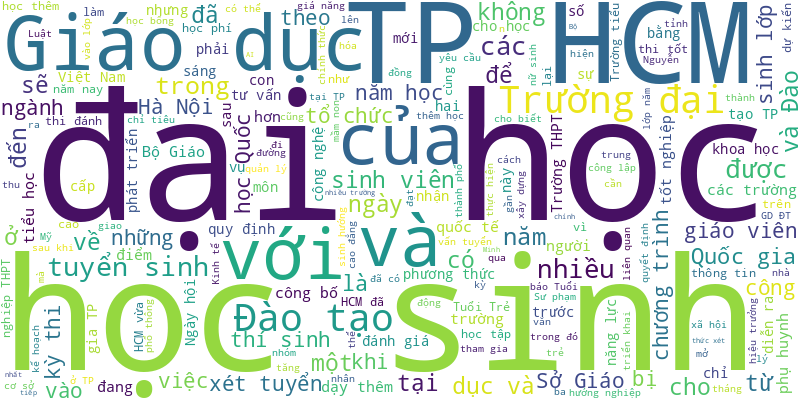
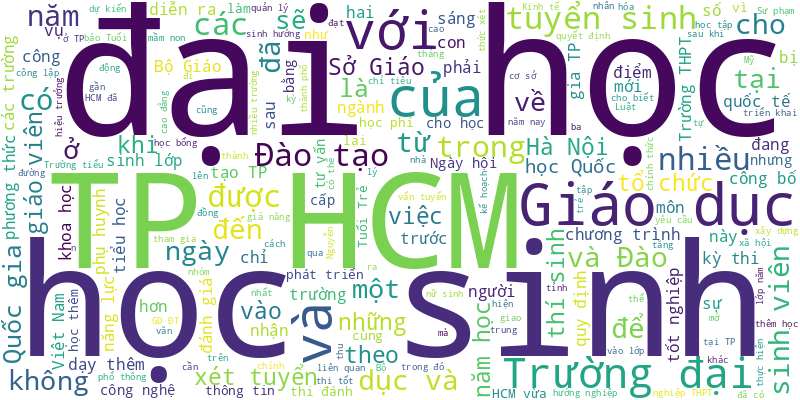
🍀 = 90%

diff --git a/README.md b/README.md
@@ -1,6 +1,11 @@
 # Tuoi Tre RSS 
 
 ## Giáo dục 
+- Nguyễn Trí Hiền và Nguyễn Trí Hậu, hai anh em song sinh ở Quảng Nam đã xuất sắc cùng với 4 học sinh khác giành huy chương vàng tại Kỳ thi Olympic giao lưu toán học Turkmenistan.
+- Cả nước hiện có nhiều trường phổ thông được tự chủ tuyển sinh, chủ yếu là các trường tư thục và công lập tự chủ tài chính.
+- Ngày 24-4, trường đại học FPT ký thỏa thuận hợp tác với trung tâm Đổi mới sáng tạo Quốc gia (NIC), mở ra bước tiến trong hành trình xây dựng hệ sinh thái khởi nghiệp cho sinh viên.
+- Chiều 27-4, nhà học thể dục thể thao Trường đại học Bách khoa, Đại học Quốc gia TP.HCM như "nổ tung" trong không khí cuồng nhiệt của vòng chung kết Giải Bóng rổ học sinh, sinh viên Đại học Quốc gia TP.HCM mở rộng năm 2025.
+- Ngày 27-4, vòng chung kết cuộc thi “Thiết kế - Dựng mô hình nhà chống thiên tai, bão lũ” đã nhận được nhiều sản phẩm độc đáo, có tính ứng dụng cao của học sinh THPT trên địa bàn TP Đà Nẵng.
 - Sở GD-ĐT TP.HCM vừa xây dựng kế hoạch sắp xếp bộ máy khi không còn phòng GD-ĐT.
 - Công an tỉnh Bắc Giang vừa phát hiện 15 giáo viên mua bằng giả cao đẳng, đại học và chứng chỉ tin học, ngoại ngữ để thi tuyển hoặc xếp lương giáo viên.
 - Chuyên gia Ngân hàng Thế giới đã chỉ ra hàng loạt điểm yếu trong đào tạo nhân lực bán dẫn ở Việt Nam, và khuyến nghị doanh nghiệp cùng tham gia vào quá trình đào tạo để đảm bảo chất lượng đầu ra đáp ứng yêu cầu thực tiễn.
@@ -999,18 +1004,63 @@ Trường đại học Văn Lang được QS xếp hạng top 51-100 thế giớ
 - Đây là một trong những yêu cầu của Phó thủ tướng Chính phủ đối với Bộ Giáo dục và Đào tạo, khi hoàn thiện dự thảo quyết định phê duyệt quy hoạch mạng lưới cơ sở giáo dục đại học và sư phạm thời kỳ 2021-2030, tầm nhìn đến năm 2050.
 - Ủy ban Kiểm tra Thanh Hóa đề nghị kiểm tra công tác tuyển sinh vào trường phổ thông dân tộc nội trú THCS từ năm học 2021 - 2022 đến nay.
 - Bảng xếp hạng đại học Việt Nam 2025 do một tổ chức trong nước xây dựng, vừa công bố cho thấy top 100 của năm nay có nhiều thay đổi.
-- Xúng xính áo dài, nghe hát quan họ, bày mâm ngũ quả, gói bánh chưng, chơi cà kheo..., sinh viên quốc tế thích thú khi được hưởng Tết Việt.
-- PGS.TS Nguyễn Xuân Thành, vụ trưởng Vụ Giáo dục trung học, chia sẻ về định hướng ôn tập chuẩn bị cho kỳ thi tốt nghiệp THPT năm 2025.
-- Từng thực tập tại các "ông lớn" công nghệ như Facebook, Nvidia, thế nhưng "cơn bão" sa thải nhân sự tại Mỹ vào cuối năm 2023 khiến Nhật Quang vô cùng căng thẳng, phải rải hơn 600 đơn tìm việc làm từ khi chưa tốt nghiệp.
-- Đại học Huế vừa có quyết định hủy kết quả trúng tuyển cao học của bà Đào Thị Bích Thủy - một lãnh đạo Trường đại học Kinh Bắc.
-- Dù đã hoàn thành chương trình liên kết đào tạo thạc sĩ điều hành quản trị kinh doanh (EMBA) hơn 1 năm qua, nhưng đến nay học viên vẫn chưa được công nhận văn bằng tại Việt Nam.
 ![Edu](Edu.png)
 ## Thời Sự 
-- Trả lời ý kiến nhân dân về việc vì sao không tổ chức thành phố Hội An như hiện nay thành một phường, ông Lê Văn Dũng - Chủ tịch UBND tỉnh Quảng Nam - cho rằng nếu thành lập phường xã mà qui mô quá lớn thì khó gần dân, sát dân.
+- Một người phụ nữ ở Hà Tĩnh vừa bị những kẻ lừa đảo giăng bẫy chiếm đoạt số tiền hơn 400 triệu đồng vì một đơn hàng "0 đồng".
+- Trong lúc bật máy lạnh ngủ trưa, cả nhà tá hỏa phát hiện nhiều con rắn đang trú ẩn trong máy điều hòa.
+- Vào lúc 20h30 đến 20h45 tối nay (28-4), TP.HCM sẽ tổng duyệt trình diễn 10.500 drone và trình diễn chính thức vào 20h30 đến 20h45 ngày 1-5.
+- Vòi rồng lớn, có sức tàn phá mạnh vừa quét qua địa bàn huyện An Minh (Kiên Giang) đã làm cho nhiều cây xanh đổ ngã và 24 căn nhà của người dân bị sập và tốc mái.
+- Căn nhà bốc cháy có 3 tầng và 1 tum, nằm sâu trong ngõ, cách mặt đường giao thông khoảng 30m. Cảnh sát cho biết đã phát hiện 3 nạn nhân tử vong.
+- Sau khi lắng nghe ý kiến đóng góp, nguyện vọng của người dân, thực hiện chỉ đạo của Ban thường vụ Tỉnh ủy Thanh Hóa, nhiều huyện đã chuyển đặt tên xã mới theo số thứ tự sang địa danh dễ nhớ, gắn với truyền thống văn hóa, lịch sử.
+- Tuấn đã tạo lập một “hệ sinh thái” gồm nhiều trang, hội nhóm kín như "Lan Quế Phường" với trên 14.600 thành viên để môi giới mại dâm và điều hành 300 gái bán dâm. Quá trình hoạt động, Tuấn đã dùng nhiều thủ đoạn tinh vi.
+- Một số tin tức đáng chú ý: REE bị phạt vì nhiều giao dịch chưa được thông qua; Nhiều doanh nghiệp 'chốt' cổ tức trước nghỉ lễ; Doanh nghiệp giảm mua lại trái phiếu trước hạn...
+- Hôm nay 28-4, thời tiết Bắc Bộ có mưa do ảnh hưởng không khí lạnh. Nam Bộ sau nhiều ngày mưa nay đã nắng nóng trở lại.
+- Thủ tướng Nhật Bản Ishiba Shigeru khẳng định như vậy trong cuộc gặp Tổng Bí thư Tô Lâm tối 27-4 tại trụ sở Trung ương Đảng ở Hà Nội.
+- Một công ty ở TP Nha Trang trình báo cơ quan điều tra, Viện KSND tỉnh Khánh Hòa và phải khóa tài khoản vì bỗng dưng bị nhận hơn 20,11 tỉ đồng bất thường. Một người dân cũng bị buộc nhận hơn 7,73 tỉ đồng.
+- Phu nhân Thủ tướng Nhật Bản Ishiba Shigeru, bà Ishiba Yoshiko, đi từ ngạc nhiên đến thích thú khi cùng làm bánh cốm với Phu nhân Tổng Bí thư Tô Lâm, bà Ngô Phương Ly.
+- Thường trực Ban Bí thư Trần Cẩm Tú căn dặn còn vài ngày đến lễ diễu binh kỷ niệm 50 năm Ngày thống nhất đất nước, thời gian gấp rút, nhiệm vụ nặng nề, mỗi cán bộ, chiến sĩ cần tập trung cao độ, đoàn kết, đồng lòng, nghìn người như một.
+- Các đại biểu được mời tham dự lễ kỷ niệm cần mang theo thư mời, thẻ đeo, căn cước công dân, không mang túi xách, chai nước, dù che đến khu vực tổ chức lễ kỷ niệm, không đi xe cá nhân vào khu vực giới hạn.
+- Đến thăm công trường sân bay Quảng Trị, Phó thủ tướng Trần Hồng Hà khích lệ công nhân vì góp tay xây dựng nên công trình mang ý nghĩa lịch sử trong không khí đại lễ 30-4.
+- Trải qua 50 năm hòa bình - thống nhất, tôi đã nối được rất nhiều mối thâm tình giữa "người bên này" với "người bên kia" và thật tự hào vì mình cũng được là một thành tố trong hòa hợp hòa giải dân tộc.
+- Dự Luật Tổ chức chính quyền địa phương sửa đổi đề xuất chủ tịch xã được bổ nhiệm, cách chức lãnh đạo cơ quan chuyên môn.
+- Ngày 27-4, Ban Quản lý dự án Mỹ Thuận (Bộ Xây dựng) đã có thông tin về tình hình thực hiện và công tác tổ chức thi công dự án cầu Nhơn Trạch trong dịp lễ 30-4 và 1-5.
+- Hàng trăm tấn bột ngọt, hạt nêm giả bị tạm giữ; Sáp nhập tỉnh thành có phải đổi biển số xe?… là các vấn đề thu hút nhiều bạn đọc phản hồi tuần qua.
+- Vừa qua, lượng hành khách chọn tuyến metro số 1 (Bến Thành - Suối Tiên) vào khu trung tâm TP.HCM xem chương trình lễ 30-4 rất đông đúc.
+- Xe chở rác đang chạy bị sạt bánh bên lề phải, tài xế đánh lái sang làn bên trái gây tai nạn với 2 xe máy chạy chiều ngược lại. Tài xế đã bị tạm giữ.
+- Lực lượng chức năng đã tìm được hai anh em ruột 12 tuổi và 11 tuổi ở Đồng Nai mất liên lạc với gia đình khi đạp xe lên TP.HCM xem diễu binh, diễu hành.
+- Mạng lưới đường trục chính tốc độ nhanh, ít giao cắt sẽ rút ngắn thời gian đi lại từ trung tâm TP.HCM ra tuyến cao tốc, vành đai để kết nối với các tỉnh thành.
+- Cựu lãnh đạo Sở Nông nghiệp và Phát triển nông thôn, Sở Xây dựng, Sở Thông tin và Truyền thông chưa được bố trí công việc sau khi hợp nhất.
+- Sáng nay 27-4, tổng duyệt diễu binh, diễu hành kỷ niệm 50 năm Giải phóng miền Nam, thống nhất đất nước được tổ chức trang trọng tại đường Lê Duẩn, TP.HCM, với sự tham gia của quân đội Trung Quốc, Lào, Campuchia.
+- Bộ Nội vụ đề xuất hỗ trợ 5,5 triệu đồng/tháng với người chuyên trách an toàn thông tin mạng, an ninh mạng; 3,5 triệu đồng/tháng với người chuyên trách quản lý công nghệ thông tin, giao dịch điện tử.
+- Trong vòng 5 ngày (từ ngày 23 đến 27-4) lực lượng Bộ Tư lệnh Vùng Cảnh sát biển 4 đã liên tiếp bắt 3 tàu cá có hành vi vi phạm tháo và giấu thiết bị giám sát hành trình trên vùng biển Tây Nam.
+- Dự án cải tạo, xây dựng hạ tầng rạch Văn Thánh có mục tiêu chỉnh trang đô thị, chống ngập, cải thiện môi trường để nâng cao chất lượng đời sống người dân.
+- Chiều 27-4, chuyên cơ đưa Thủ tướng Nhật Bản Ishiba Shigeru và Phu nhân hạ cánh xuống sân bay Nội Bài, đánh dấu chuyến thăm đầu tiên của ông đến Việt Nam trên cương vị Thủ tướng bắt đầu.
+- Kế hoạch ban đầu, vào 28-4, Vietnam Airlines sẽ chuyển đổi toàn bộ các chuyến bay nội địa sang nhà ga T3 Tân Sơn Nhất. Tuy nhiên hãng vừa thông báo phương án này đã có sự thay đổi về thời gian chuyển đổi.
+- Ngày 27-4, Liên đoàn Lao động TP Đà Nẵng trao tặng 34 mái ấm cho công nhân có hoàn cảnh khó khăn với tổng trị giá hơn 1,22 tỉ đồng trong dịp Tháng công nhân năm 2025.
+- 65 mẹ liệt sĩ, thân nhân liệt sĩ còn thiếu thông tin, chưa trở về được với gia đình trên địa bàn Long An đã được thu nhận mẫu ADN để tiếp tục tìm kiếm.
+- Bộ Tài chính đánh giá số lượng nhà đất công dôi dư sau khi sáp nhập, tinh gọn bộ máy rất lớn. Nên việc bố trí sắp xếp, xử lý và sử dụng trụ sở phải đảm bảo hiệu quả, tránh xuống cấp, thất thoát.
+- Trong trận đánh ở chân cầu Câu Nhi 53 năm trước, 93 chiến sĩ Sư đoàn 308 cùng hy sinh. Sau nửa thế kỷ, các liệt sĩ này có một "mái nhà chung", thân nhân có một nơi để thăm viếng.
+- Tính đến nay, tôi đã có gần 20 năm làm "dân ngụ cư" khu vực Nhà Bè, Bình Chánh, đi về trên đại lộ Nguyễn Văn Linh, Nguyễn Hữu Thọ.
+- Để được chứng kiến những khoảnh khắc đẹp nhất của hòa bình, nhiều người đã không quản đường xa đến TP.HCM dự lễ kỷ niệm 50 năm thống nhất đất nước.
+- Do ảnh hưởng của không khí lạnh kết hợp với rãnh thấp nên từ chiều tối nay đến ngày mai (28-4), ở Bắc Bộ có mưa, mưa vừa, mưa to, nguy cơ xảy ra dông, lốc, sét và mưa đá.
+- Trưa 27-4, tại Hội Nhà báo TP.HCM, Ban Chỉ đạo Trung ương kỷ niệm các ngày lễ lớn và sự kiện lịch sử quan trọng của đất nước giai đoạn 2023-2025 đã khai trương Trung tâm Báo chí lễ kỷ niệm 50 năm Ngày Giải phóng miền Nam, thống nhất đất nước.
+- Sáng 27-4, gần 600 người cùng chung tay nhặt rác và tham gia các hoạt động thiết thực trong ngày hội môi trường biển tại Đà Nẵng 2025 tại khu vực biển Nguyễn Tất Thành.
+- Kiên Giang xây dựng và định vị thương hiệu du lịch tỉnh gắn liền hình ảnh chủ đạo, độc đáo, mang đậm bản sắc văn hóa, con người địa phương đến với du khách và đặc biệt khách quốc tế.
+- Người cựu chiến binh Nghệ An chạy xe máy vượt hành trình hơn 1.300km vào TP.HCM xem lễ diễu binh, diễu hành nhận được nhiều giúp đỡ, đón tiếp của người dân.
+- Quảng Ngãi tính điều động gần 40 giám đốc, phó giám đốc sở và tương đương về xã công tác. Đồng thời, Ban Thường vụ Tỉnh ủy Quảng Ngãi có văn bản gửi Ban Thường vụ Tỉnh ủy Kon Tum để nghiên cứu thực hiện.
+- Một đường dây cá độ bóng đá có quy mô giao dịch trên 100 tỉ đồng vừa bị cảnh sát hình sự Đà Nẵng triệt phá.
+- Thời khắc lá cờ giải phóng tung bay trên nóc dinh Độc Lập trưa 30-4-1975 đã đi vào lịch sử dân tộc như một sự kiện trọng đại - ngày miền Nam hoàn toàn giải phóng, đất nước thống nhất, non sông thu về một mối.
+- Tuần này Bắc Bộ có mưa do ảnh hưởng không khí lạnh, Nam Bộ nắng nóng, Trung Bộ ngày nắng.
+- Tuyến đường gom vào cầu Rạch Miễu 2, phía tỉnh Bến Tre có tổng chiều dài hơn 18km, vốn đầu tư hơn 1.158 tỉ đồng đã hoàn thành và thông xe.
+- Đoàn kiều bào từ 24 quốc gia và vùng lãnh thổ đã thực hiện hải trình đến Trường Sa và nhà giàn DK 1, mang theo tình cảm của người Việt Nam trên toàn thế giới đến với cán bộ, chiến sĩ và nhân dân.
+- Khi sáp nhập tỉnh thành, sổ đỏ có bị thu hồi? Trường hợp nào sẽ bị thu hồi sổ đỏ theo Luật Đất đai 2024?
+- HĐND tỉnh Bà Rịa - Vũng Tàu quyết nghị thành lập 29 xã, phường và 1 đặc khu khi sắp xếp, tổ chức lại xã, phường. Đồng thời tán thành chủ trương sáp nhập tỉnh này với tỉnh Bình Dương và TP.HCM để thành một TP trực thuộc trung ương.
+- Hưởng ứng không khí đại lễ 30-4, nhiều người xúng xính sắm áo thun, phụ kiện mang biểu tượng đất nước trên các sàn thương mại điện tử để "đi đu concert quốc gia".
+- Thông báo mới nhất từ Phòng cảnh sát giao thông Công an TP.HCM (PC08) về điều chỉnh, phân luồng giao thông phục vụ đại lễ 30-4.
+- Trả lời ý kiến nhân dân về việc vì sao không tổ chức thành phố Hội An như hiện nay thành một phường, ông Lê Văn Dũng - chủ tịch UBND tỉnh Quảng Nam - cho rằng nếu thành lập phường, xã mà quy mô quá lớn thì khó gần dân, sát dân.
 - Sau khi sáp nhập 3 tỉnh Bến Tre, Trà Vinh và Vĩnh Long thành một tỉnh mới, ngoài cây cầu Cổ Chiên hiện hữu, trong tương lai sẽ có thêm cầu Cổ Chiên 2 và cầu Đình Khao. Vị trí của những cây cầu này nằm ở đâu?
 - Ông Hoàng Khánh Duy - phó trưởng Ban quản lý Khu kinh tế cửa khẩu Đồng Đăng - Lạng Sơn (tỉnh Lạng Sơn) - cho biết tình hình xuất nhập khẩu hàng hóa ở các cửa khẩu tại tỉnh Lạng Sơn vẫn hoạt động bình thường.
 - Dưới dây là những thông tin về thời gian, khu vực cấm xe, kinh nghiệm đi xem tổng duyệt an toàn, những điểm lý tưởng xem các hoạt động chính của đại lễ...
-- Trưa 26-2, anh Alvin Neoh (35 tuổi, người Malaysia) cùng hai người bạn của mình tranh thủ đến Bưu điện TP.HCM để chụp ảnh, ngắm quang cảnh TP.
 - Theo thống kê của UBND xã Phong Vân (huyện Ba Vì, Hà Nội), có 47 hộ dân ở bãi sông Hồng bị nứt, đoạn đê kè bị ảnh hưởng vẫn chưa được gia cố lại dù đã một năm trôi qua.
 - Sau khi hoàn thành phần diễu binh ngang qua lễ đài, các khối quân đội, công an tỏa ra 4 hướng về điểm tập kết, đi giữa tiếng hò reo động viên của đông đảo người dân.
 - Dự kiến, sau khi hợp nhất tỉnh Lào Cai và tỉnh Yên Bái, các cơ quan, đơn vị thuộc tỉnh Lào Cai mới sẽ bố trí hai nơi làm việc ở Yên Bái (trụ sở chính) và Lào Cai.
@@ -1956,56 +2006,6 @@ Trường đại học Văn Lang được QS xếp hạng top 51-100 thế giớ
 - UBND TP Hà Nội chỉ đạo các đơn vị liên quan giải quyết, khắc phục hậu quả vụ cháy nhà làm 2 người chết tại số 8 ngách 14 ngõ 69 phố Trung Liệt.
 - Nhóm đã sản xuất, mua bán hàng ngàn văn bằng, chứng chỉ, căn cước công dân, hộ chiếu, bằng lái xe giả giống với thật lên đến 99,9%.
 - Theo thông báo hội nghị lần thứ 11, Ban Chấp hành Trung ương đã thảo luận, cho ý kiến, thống nhất nhiều nội dung quan trọng.
-- Công an tỉnh Bà Rịa - Vũng Tàu đang điều tra vụ một công nhân làm việc trong nhà máy tại khu công nghiệp ở tỉnh này qua đời nghi ngạt khí độc.
-- Thay vì đặt tên theo số thứ tự như trước, trong lần đề xuất này, UBND TP Thủ Đức đề xuất sáp nhập 34 phường thành 12 phường đặt tên chữ.
-- Thủ tướng yêu cầu điều tra nguyên nhân, xử lý nghiêm những trường hợp cố tình vi phạm các quy định về phòng cháy, chữa cháy rừng.
-- Tòa tuyên án tử hình nam thanh niên đã ra tay sát hại dã man bạn gái sau màn cầu hôn từng gây xôn xao trên mạng xã hội.
-- Chỉ còn 15 ngày nữa, 20km cao tốc Biên Hòa - Vũng Tàu đoạn qua tỉnh Bà Rịa - Vũng Tàu sẽ thông xe kỹ thuật.
-- Trong lúc mưa to, hai người dân đi trên một xe máy qua ngầm tràn ở Lai Châu thì bị nước cuốn mất tích.
-- Căn nhà cháy cao 2 tầng, 1 tum ở Hà Nội, nằm trong ngõ cách đường khoảng 50 mét.
-- Nhiều phường tại TP.HCM đang lấy ý kiến người dân về việc sáp nhập Bình Dương, Bà Rịa - Vũng Tàu vào TP.HCM và sắp xếp các phường, xã.
-- Qua khảo sát một số địa phương cấp huyện ở Cà Mau, nhiều cán bộ có đơn đăng ký xin nghỉ hưu trước tuổi và nghỉ thôi việc để sắp xếp, tinh gọn bộ máy.
-- Tuần này, từ ngày 13 đến 19-4, thời tiết cả nước xuất hiện đợt nắng nóng diện rộng, nhiều nơi oi bức, nắng gắt.
-- Bé trai 2 tuổi ở tỉnh Quảng Nam bị chủ nhóm trẻ Con Cưng bạo hành được bệnh viện chẩn đoán chấn động não, nhiều chấn thương, vết thương.
-- Nhận được số tiền 3,5 tỉ đồng vào tài khoản không rõ lý do, một cán bộ ở Lâm Đồng đã chủ động trình báo công an để trả lại.
-- Không chỉ ở các đô thị lớn, làn sóng tiêu dùng số hóa đang len lỏi mạnh mẽ cùng bước đi của thương mại điện tử vào đời sống nông thôn, nơi sinh sống của phần lớn dân số Việt Nam.
-- Dự Luật Tổ chức chính quyền địa phương sửa đổi đề xuất từ 1-7, các đơn vị cấp huyện thuộc khu vực hải đảo được chuyển thành đặc khu.
-- Khối công trình các trụ sở đã được xây dựng xong phần thô, đang hoàn thiện bên ngoài.
-- Mỗi chuyến ghe trên dòng sông Vàm Cỏ Đông giờ đây trở thành một cuộc vật lộn giữa người và nước, giữa máy và cỏ dại.
-- Một số tin tức đáng chú ý: Công ty chứng khoán sẵn sàng 'go live' KRX; Tổng giám đốc Chứng khoán Tiên Phong rời 'ghế nóng'; Một công ty bất động sản ở TP.HCM 'ém' nhiều thông tin về trái phiếu.
-- Rừng ở khu vực Khe Bốc, Bình Liêu, Quảng Ninh cháy lớn, hàng trăm người gồm lực lượng chức năng và người dân đang tập trung dập lửa.
-- Hôm nay 13-4, không khí lạnh vẫn chi phối khiến thời tiết Bắc Bộ mưa rét. Nam Bộ nắng nóng, chiều tối mưa dông.
-- Quá trình tổ chức khám xét 19 địa điểm là nhà máy sản xuất, văn phòng làm việc của các nghi phạm, Cơ quan cảnh sát điều tra thu giữ 84 loại sữa bột với số lượng 26.740 lon/90 lô sản xuất.
-- Cơ quan cảnh sát điều tra Công an tỉnh Quảng Nam đã tạm giữ hình sự chủ nhóm trẻ tư thục có hành vi bạo hành trẻ em.
-- Nhiều người dân ở TP.HCM đặt câu hỏi về việc đi tuyến xe buýt nào có thể đến nhà ga T3 Tân Sơn Nhất (quận Tân Bình) vào dịp 30-4 sắp tới?
-- Công tác diễn tập dẫn đoàn được thực hiện nghiêm túc, bài bản. Cán bộ, chiến sĩ chỉ huy giao thông nhanh, dứt khoát và phối hợp nhịp nhàng cùng các lực lượng mặt đất, thông tin.
-- Dự kiến Ban Thường vụ Tỉnh ủy Quảng Ngãi và Kon Tum sẽ có buổi làm việc tại trụ sở Huyện ủy Kon Plông (thị trấn Măng Đen, huyện Kon Plông, Kon Tum) để triển khai một số nội dung liên quan đến sáp nhập tỉnh.
-- Trạm nghiên cứu và chuyển giao tiến bộ khoa học kỹ thuật chăn nuôi Ninh Thuận rộng hơn 50ha nhưng chỉ chăn nuôi khoảng 500 con cừu.
-- Chính phủ ban hành nghị định 87/2025 quy định việc giảm tiền thuê đất năm 2024, với mức giảm 30%.
-- Sở Giao thông công chánh TP.HCM vừa yêu cầu các địa phương nghiên cứu, tháo dỡ các thanh chắn trên vỉa hè gây cản trở đi bộ.
-- Tại Hội nghị Trung ương 11 đã thống nhất bổ sung nhân sự quy hoạch Ban Chấp hành Trung ương Đảng khóa XIV.
-- Phòng cảnh sát giao thông Công an tỉnh Bình Dương (PC08) vừa ra văn bản tháo gỡ những khó khăn, vướng mắc khi người dân đã làm thủ tục cấp đổi, cấp lại giấy phép lái xe bằng vật liệu PET nhưng chưa nhận được.
-- Ngày 12-4, Bộ Y tế có văn bản gửi các tỉnh, thành phố đề nghị tăng cường công tác phòng chống xâm hại trẻ em.
-- Cơ quan cảnh sát điều tra xác định đường dây này đã sản xuất 573 loại sữa bột khác nhau, gồm sữa dành cho người bị tiểu đường, suy thận, trẻ sinh non, thiếu tháng và phụ nữ có thai.
-- Hình thức lấy ý kiến về đề án sáp nhập chủ yếu thực hiện trực tiếp tại nhà thông tin khu vực, ấp.
-- Theo Tổng Bí thư Tô Lâm, Trung ương Đảng thống nhất số lượng đơn vị hành chính cấp tỉnh sau sáp nhập là 34 tỉnh, thành phố (28 tỉnh và 6 thành phố).
-- Người phụ nữ chạy xe buông hai tay, giơ chân đã cung cấp giấy xác nhận bị bệnh tâm thần và thừa nhận mình là người điều khiển xe như trong clip.
-- Những cây hoa gạo cổ thụ được người dân Anh Sơn, Nghệ An bảo vệ, chăm sóc nở đỏ rực một góc trời như mời gọi du khách về thưởng ngoạn.
-- Hai nghi phạm trộm chó bị công an phát hiện đã dùng bình xịt hơi cay chống trả quyết liệt hòng tẩu thoát.
-- Tổng Bí thư Tô Lâm khẳng định sẽ chú trọng phát triển y tế, tăng cường chăm sóc sức khỏe nhân dân, hướng tới mục tiêu miễn viện phí toàn dân.
-- Sở Tài chính Quảng Ngãi cử người không đảm bảo tiêu chuẩn, năng lực đến Trung tâm hành chính công tỉnh làm việc. Chủ tịch UBND tỉnh yêu cầu sở này khẩn trương cử nhân sự đảm bảo năng lực thay thế.
-- Công an Quảng Nam đã đến làm việc, khám nghiệm, chụp ảnh tại nhóm trẻ tư thục ở huyện Quế Sơn liên quan đến vụ việc chủ cơ sở bạo hành trẻ.
-- Sáng 12-4, trong ngày đầu tiên thu vé vào cửa, Bảo tàng Lịch sử quân sự Việt Nam đã đón hơn 20.000 lượt khách tham quan.
-- Trong lúc nóng lòng tìm kiếm người thân bị mất liên lạc, người nhà anh Phước quận Tân Phú) bị người dùng tài khoản 'Thám Tử Thành Công' lừa 5 triệu.
-- Ban chỉ đạo các hoạt động 'Tết Quân - Dân' tỉnh Kiên Giang đã xây 58 căn nhà đại đoàn kết, nhà mái ấm công đoàn, nhà đồng đội, nhà nghĩa tình đồng đội, nhà tình thương… cho hộ nghèo, hộ cận nghèo ở địa phương.
-- Trung tâm Quản lý hạ tầng giao thông đường bộ TP.HCM thực hiện một số giải pháp nhằm xóa điểm hay xảy ra tai nạn tại cầu Kênh Một Tấn trên đường Võ Chí Công, TP Thủ Đức.
-- Lãnh đạo UBND phường Thanh Trì (Hà Nội) nói về phương án xử lý loạt nhà liền kề xây sai phép tại số 79 Thanh Đàm khiến nhiều cán bộ bị bắt.
-- Cây gạo ở Hà Nam đã bị chặt không thương tiếc sau khi việc đòi thu phí chụp ảnh bị phát hiện, tung lên mạng.
-- Nhiều người dân đi trên quốc lộ 13 qua địa bàn tỉnh Bình Dương bất ngờ khi bị dừng xe, để trả lời phiếu khảo sát liên quan dự án tuyến đường sắt đô thị (metro).
-- Khoa học công nghệ được đánh giá là lĩnh vực hợp tác tiềm năng to lớn, nhận được quan tâm trong bối cảnh Tổng Bí thư, Chủ tịch nước Trung Quốc Tập Cận Bình lần thứ tư đến Việt Nam.
-- Vợ chồng Việt kiều Nguyễn Ngọc Lý bị khởi tố, bắt tạm giam để phục vụ công tác điều tra hành vi lừa đảo chiếm đoạt tài sản.
-- Tại dự Luật Tổ chức chính quyền địa phương sửa đổi đề xuất giải thể đơn vị huyện, quận, thành phố thuộc tỉnh, thành phố thuộc thành phố, thị xã, thị trấn kể từ 1-7.
-- Được tìm thấy cùng 65 hài cốt liệt sĩ và chuyên gia Việt Nam hy sinh trên đất nước bạn Lào là nhiều di vật, trong đó có mảnh lược khắc chữ 'Hạnh phúc'.
 ![New](News.png)
 ## Nhịp sống số 
 - Tham vọng chinh phục thế giới robot hình người của Hãng xe điện Tesla (Mỹ) đang gặp trở ngại lớn, do chính sách xuất khẩu mới nhất của Trung Quốc.
